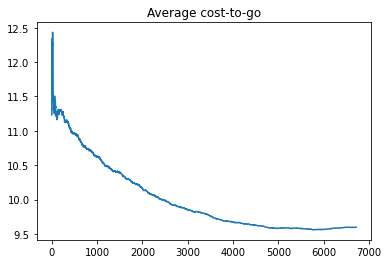
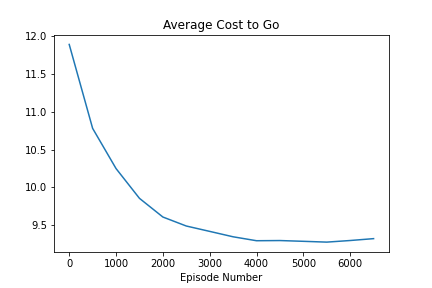
finished 1st,2nd,3rd evaluation

Changed region(s): [[0.0, 0.0303, 0.9897, 1.0], [0.0309, 0.8788, 0.0928, 0.9091]]

diff --git a/deep_q_t.py b/deep_q_t.py
@@ -7,7 +7,6 @@ Created on Sat Feb  5 22:35:39 2022
 """
 import sys
 import os
-import glob
 os.environ["CUDA_VISIBLE_DEVICES"] = "-1"
 import tensorflow as tf
 from tensorflow.keras import layers
@@ -43,8 +42,9 @@ NU                     = 11
 TRAIN                  = True
 STAY_UP                = 50
 THRESHOLD_Q            = 1e-1
-THRESHOLD_V            = 1e-1
-THRESHOLD_C            = 1e-2
+THRESHOLD_V            = 9e-1
+THRESHOLD_C            = 9e-1
+MIN_THRESHOLD          = 9e-3
 
 
 def create_folder_backup():
@@ -105,6 +105,7 @@ if __name__=='__main__':
     print("Seed = %d" % RANDOM_SEED)
     np.random.seed(RANDOM_SEED)
     FOLDER , MODEL_NUM = create_folder_backup()
+    print("Start training Model #", MODEL_NUM)
     env = HPendulum(JOINT_COUNT, NU, dt=0.1)
     nx = env.nx
     nv = env.nv
@@ -121,7 +122,6 @@ if __name__=='__main__':
     steps = 0
     epsilon = EPSILON
     t_start = t = time.time()
-    threshold = THRESHOLD_V
 
     # to clear old saved weights
 #    directory = glob.glob(FOLDER + '*')
@@ -145,7 +145,8 @@ if __name__=='__main__':
         simulate()
     else:
         try:
-            count = 0
+            count_eps = 0
+            count_thresh = 0
             for episode in range(1,NEPISODES+1):
                 ctg = 0.0
                 x = env.reset()
@@ -211,23 +212,22 @@ if __name__=='__main__':
                 avg_ctg = np.average(h_ctg[-nprint:])
                 
                 if dec_threshold:
-                    threshold*= 0.95
+                    count_thresh +=1
+                    THRESHOLD_V = THRESHOLD_C = max(MIN_THRESHOLD, np.exp(-EPSILON_DECAY*count_thresh))
+
                 if avg_ctg <= best_ctg and episode > 0.02*NEPISODES:
-#                    simulate()
-                    print("cost is: ", avg_ctg, " best_ctg was: ", best_ctg ," saving weights")
-#                    name = FOLDER + "Q_weights_" + str(episode).zfill(5) + ".h5"
-#                    Q.save_weights(name)
+                    print("cost is: ", avg_ctg, " best_ctg was: ", best_ctg)
                     best_ctg = avg_ctg
 
-
                 if(len(replay_buffer)>=MIN_BUFFER_SIZE):
-                    count +=1
-                    epsilon = max(MIN_EPSILON, np.exp(-EPSILON_DECAY*count))
+                    count_eps +=1
+                    epsilon = max(MIN_EPSILON, np.exp(-EPSILON_DECAY*count_eps))
+                    
                 h_ctg.append(ctg)
                 
                 if(PLOT and episode % nprint == 0):
                     plt.plot( np.cumsum(h_ctg)/range(1,len(h_ctg)+1)  )
-                    plt.title ("Average cost-to-go")
+                    plt.title ("Average cost to go")
                     plt.show()       
                     
                 if episode % SAVE_MODEL == 0:
@@ -238,8 +238,12 @@ if __name__=='__main__':
                     t = time.time()
                     tot_t = t - t_start
                     print('Episode: #%d , cost: %.1f , buffer size: %d, epsilon: %.1f, threshold: %.5f, elapsed: %.1f s , tot. time: %.1f m' % (
-                          episode, avg_ctg, len(replay_buffer), 100*epsilon,threshold, dt, tot_t/60.0))
-
+                          episode, avg_ctg, len(replay_buffer), 100*epsilon,THRESHOLD_V, dt, tot_t/60.0))
+            if(PLOT):
+                plt.plot( np.cumsum(h_ctg)/range(1,len(h_ctg)+1)  )
+                plt.title ("Average cost to go")
+                plt.savefig(FOLDER + "ctg_training.png")
+                plt.show()   
         except KeyboardInterrupt:
             print('key pressed ...stopping and saving last weights of Q')
             name = FOLDER + 'MODEL_'+ MODEL_NUM + '_' + 'final.h5'

diff --git a/live_simulation.py b/live_simulation.py
@@ -104,8 +104,8 @@ def simulate_folder(itr=INNER_ITR):
     print("the best model performance is:", best_model, "with a cost to go of:",round(best_ctg,3)) if any(model_sucess) else print("None of the models reached target")
     if(PLOT):
         plt.plot( np.cumsum(h_ctg)/range(1,len(h_ctg)+1)  )
-        plt.xlabel("")
-        plt.title ("Average cost-to-go")
+        plt.xlabel("Episode Number")
+        plt.title ("Average Cost to Go")
         plt.show()                 
 
 

diff --git a/perform_check.py b/perform_check.py
@@ -20,7 +20,7 @@ import re
 
 
 #FOLDER = 'Q_weights_backup/'
-FOLDER = 'model_backup/fourth_run/'
+FOLDER = 'model_backup/third_run/'
 #FOLDER = 'Q_weights_backup/tr/'
 
 
